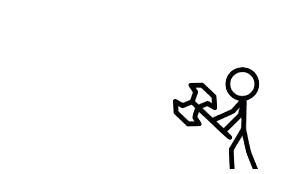
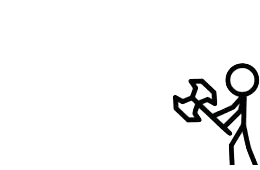
collision!!!

Changed region(s): [[0.5846, 0.3529, 1.0, 0.9706]]

diff --git a/src/Intro.java b/src/Intro.java
@@ -1,19 +1,14 @@
 import java.applet.AudioClip;
 import java.awt.Color;
-import java.awt.Insets;
 import java.awt.event.ActionEvent;
 import java.awt.event.ActionListener;
 import java.awt.event.MouseEvent;
 import java.awt.event.MouseListener;
-import java.util.ArrayList;
 
 import javax.swing.JApplet;
 import javax.swing.JButton;
 import javax.swing.JFrame;
-import javax.swing.JLabel;
 import javax.swing.JOptionPane;
-import javax.swing.JPanel;
-import javax.swing.JTextField;
 import javax.swing.Timer;
 
 public class Intro implements ActionListener, MouseListener {
@@ -24,9 +19,9 @@ public class Intro implements ActionListener, MouseListener {
 	JButton back;
 	customBackground gamebackground;
 	Timer time;
-	int money = 0;
+	/// int money = 0;
 	Boolean inGame = false;
-	JLabel moneyV;
+	/// JLabel moneyV;
 	AudioClip sound;
 	sounds s = new sounds();
 
@@ -38,7 +33,7 @@ public class Intro implements ActionListener, MouseListener {
 
 		frame = new JFrame("Intro Screen");
 		panel = new customBackground("background.jpg");
-		moneyV = new JLabel("Money:" + money);
+		/// moneyV = new JLabel("Money:" + money);
 		frame.addMouseListener(this);
 		instructions = new JButton("How To Play");
 		play = new JButton("Play Game");
@@ -92,7 +87,7 @@ public class Intro implements ActionListener, MouseListener {
 			gamebackground.repaint();
 			frame.setSize(1533, 540);
 
-			gamebackground.add(moneyV);
+			/// gamebackground.add(moneyV);
 			frame.repaint();
 			time.start();
 			/// game x = new game();
@@ -109,7 +104,7 @@ public class Intro implements ActionListener, MouseListener {
 		}
 		gamebackground.addEnemy();
 		gamebackground.update();
-		
+
 	}
 
 	@Override
@@ -126,8 +121,8 @@ public class Intro implements ActionListener, MouseListener {
 			s.playSound(sound);
 
 			gamebackground.addArrow(e.getX(), e.getY());
-			money += 1;
-			moneyV.setText("Money:" + money);
+			/// money += 1;
+			/// moneyV.setText("Money:" + money);
 		} else {
 
 		}

diff --git a/src/arrow.java b/src/arrow.java
@@ -1,8 +1,7 @@
 import java.awt.Color;
 import java.awt.Graphics;
+import java.awt.Rectangle;
 import java.awt.image.BufferedImage;
-
-import javax.imageio.ImageIO;
 
 public class arrow {
 	int x;
@@ -18,9 +17,13 @@ public class arrow {
 	int xDif;
 	int yDif;
 	BufferedImage arrowImage;
+	Rectangle collisionBoxArrow;
+	int CBAwidth = 75;
+	int CBAheight = 40;
+	int CBAx = x + 25;
+	int CBAy = y + 25;
 
-	arrow(int x, int y, int width, int height, int speed, int damage, int destinationX, int destinationY,
-			BufferedImage a) {
+	arrow(int x, int y, int width, int height, int speed, int damage, int destinationX, int destinationY, BufferedImage a) {
 		this.x = x;
 		this.y = y;
 		this.width = width;
@@ -32,28 +35,36 @@ public class arrow {
 		xDif = destinationX - x;
 		yDif = destinationY - y;
 		this.arrowImage = a;
-		angle = (float) Math.atan(yDif / xDif);
+		angle = (float) Math.atan(xDif / yDif);
 		hypot = (float) Math.sqrt((xDif * xDif) + (yDif * yDif));
 
 		System.out.println(xDif);
 		System.out.println(yDif);
-
+		collisionBoxArrow = new Rectangle(CBAx, CBAy, CBAwidth, CBAheight);
 	}
 
 	void draw(Graphics g) {
-
 		g.drawImage(arrowImage, x, y, width, height, null);
+		g.setColor(Color.red);
+		g.drawRect(collisionBoxArrow.x, collisionBoxArrow.y, collisionBoxArrow.width, collisionBoxArrow.height);
 	}
 
 	void update() {
-		// x += speed * Math.cos(xDif / hypot);
-		// y += speed * Math.sin(yDif / hypot);
-		if (y > destinationY) {
-			y += -3;
-		}
-		if (y < destinationY) {
-			y += 3;
-		}
-		x += speed;
+		x += speed * Math.sin(angle);
+		y += speed * Math.cos(angle);
+		/// if (y > destinationY) {
+		/// y += -3;
+		// }
+		// if (y < destinationY) {
+		// y += 3;
+		// }
+		// x += speed;
+		collisionBoxArrow.setBounds(CBAx, CBAy, CBAwidth, CBAheight);
+		CBAx = x + 25;
+		CBAy = y + 25;
+	}
+
+	Rectangle getBox() {
+		return collisionBoxArrow;
 	}
 }

diff --git a/src/customBackground.java b/src/customBackground.java
@@ -2,7 +2,6 @@ import java.awt.Graphics;
 import java.awt.image.BufferedImage;
 import java.io.IOException;
 import java.util.ArrayList;
-import java.util.Iterator;
 
 import javax.imageio.ImageIO;
 import javax.swing.JPanel;
@@ -14,6 +13,7 @@ public class customBackground extends JPanel {
 	ArrayList<enemy> enemyList;
 	BufferedImage enemyImage;
 	long enemyTimer = -1;
+
 	customBackground(String x) {
 		arrowList = new ArrayList<arrow>();
 		enemyList = new ArrayList<enemy>();
@@ -21,12 +21,12 @@ public class customBackground extends JPanel {
 			background = ImageIO.read(this.getClass().getResourceAsStream(x));
 			arrowImage = ImageIO.read(this.getClass().getResourceAsStream("arrowImage.png"));
 			enemyImage = ImageIO.read(this.getClass().getResourceAsStream("axeEnemy.png"));
-			
+
 		} catch (IOException e) {
 			// TODO Auto-generated catch block
 			e.printStackTrace();
 		}
-		
+
 	}
 
 	public void paintComponent(Graphics g) {
@@ -35,9 +35,9 @@ public class customBackground extends JPanel {
 		for (arrow a : arrowList) {
 			a.draw(g);
 		}
-		for (enemy e: enemyList){
+		for (enemy e : enemyList) {
 			e.paint(g);
-			
+
 		}
 	}
 
@@ -55,17 +55,29 @@ public class customBackground extends JPanel {
 	}
 
 	void update() {
-		for (enemy e: enemyList) {
+		for (enemy e : enemyList) {
 			e.update();
+			checkCollision();
 		}
 	}
-	void addEnemy(){
+
+	void addEnemy() {
 		if (enemyTimer == -1) {
 			enemyTimer = System.currentTimeMillis();
 		}
-		if (System.currentTimeMillis()-enemyTimer >= 2000) {
+		if (System.currentTimeMillis() - enemyTimer >= 2000) {
 			enemyList.add(new enemy(1329, 300, 200, 200, 1, enemyImage));
 			enemyTimer = -1;
+		}
+	}
+
+	void checkCollision() {
+		for (enemy e : enemyList) {
+			for (arrow a : arrowList) {
+				if (e.getBox().intersects(a.getBox())) {
+					System.out.println("yolo");
+				}
+			}
 		}
 	}
 }

diff --git a/src/enemy.java b/src/enemy.java
@@ -1,3 +1,4 @@
+import java.awt.Color;
 import java.awt.Graphics;
 import java.awt.Rectangle;
 import java.awt.image.BufferedImage;
@@ -10,6 +11,10 @@ public class enemy {
 	float speed;
 	Rectangle collisionBox;
 	BufferedImage enemy;
+	int CBwidth = 90;
+	int CBheight = 125;
+	int CBx = x + 100;
+	int CBy = y + 100;
 
 	enemy(int x, int y, int width, int height, float speed, BufferedImage enemy) {
 		this.x = x;
@@ -18,16 +23,25 @@ public class enemy {
 		this.width = width;
 		this.enemy = enemy;
 		this.speed = speed;
-		collisionBox = new Rectangle(x, y, width, height);
+		collisionBox = new Rectangle(CBx, CBy, CBwidth, CBheight);
 	}
 
 	public void paint(Graphics g) {
 		g.drawImage(enemy, x, y, width, height, null);
+		g.setColor(Color.red);
+		g.drawRect(collisionBox.x, collisionBox.y, collisionBox.width, collisionBox.height);
 	}
 
 	public void update() {
-		collisionBox.setBounds(x, y, width, height);
+		collisionBox.setBounds(CBx, CBy, CBwidth, CBheight);
+		CBx = x + 110;
+		CBy = y + 75;
+
 		x -= speed;
-		
+
+	}
+
+	Rectangle getBox() {
+		return collisionBox;
 	}
 }
